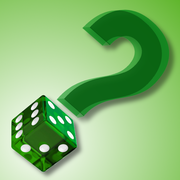
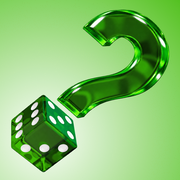
Add files via upload

diff --git a/index.html b/index.html
@@ -361,6 +361,29 @@
   .cta-results.has-results { box-shadow: var(--shadow), 0 0 20px 2px rgba(101, 190, 143, 0.55); }
   .cta-results:disabled { opacity: 0.55; cursor: default; box-shadow: var(--shadow); }
 
+  /* Round 18: "Surprise Me" — a secondary CTA right below the main results
+     button. Deliberately quieter (outlined, not filled) so it reads as a
+     lighter-weight alternative rather than competing with "View Results". */
+  .cta-surprise {
+    margin: 0 0 6px;
+    width: 100%;
+    display: flex; align-items: center; justify-content: center; gap: 8px;
+    border: 1.5px solid rgba(244, 241, 234, 0.35);
+    border-radius: 14px;
+    background: transparent;
+    color: var(--ink-dim);
+    font-family: var(--font-results);
+    font-weight: 600;
+    font-size: 15.5px;
+    letter-spacing: 0.02em;
+    padding: 11px;
+    cursor: pointer;
+    transition: border-color 0.2s ease, color 0.2s ease, background 0.2s ease;
+  }
+  .cta-surprise-icon { width: 17px; height: 17px; flex-shrink: 0; }
+  .cta-surprise:hover:not(:disabled) { border-color: rgba(244, 241, 234, 0.6); color: var(--ink); background: rgba(244, 241, 234, 0.06); }
+  .cta-surprise:disabled { opacity: 0.4; cursor: default; }
+
   /* ---- Footer badge (Round 14: pinned to the viewport so the Feedback
      bubble is reachable from the search screen AND the results screen
      without scrolling past a long results list first) ---- */
@@ -870,6 +893,10 @@
       </div>
 
       <button type="button" class="cta-results" id="view-results-btn">View 0 Results</button>
+      <button type="button" class="cta-surprise" id="surprise-btn" disabled>
+        <svg class="cta-surprise-icon" viewBox="0 0 24 24" fill="none" aria-hidden="true"><rect x="3" y="3" width="18" height="18" rx="4" stroke="currentColor" stroke-width="2"/><circle cx="8.3" cy="8.3" r="1.6" fill="currentColor"/><circle cx="15.7" cy="8.3" r="1.6" fill="currentColor"/><circle cx="12" cy="12" r="1.6" fill="currentColor"/><circle cx="8.3" cy="15.7" r="1.6" fill="currentColor"/><circle cx="15.7" cy="15.7" r="1.6" fill="currentColor"/></svg>
+        Surprise Me
+      </button>
     </section>
 
     <!-- RESULTS SCREEN -->
@@ -1420,8 +1447,13 @@
   // ---- Information panel: app credit + version/update-notes history
   // (Round 12, replaces the old Profile placeholder). Newest entry first;
   // add a new entry here at the top of the array with every future build. ----
-  var APP_VERSION = 'V02.06';
+  var APP_VERSION = 'V02.07';
   var VERSION_HISTORY = [
+    {
+      version: 'V02.07',
+      date: 'September 25, 2026',
+      notes: "New logo and app icon! The “Who's Playing?” badge now shows the actual player counts you picked (like “2-3” or “2,4”) instead of just how many you selected. Added a Surprise Me button on the search screen that jumps straight to a random pick from your top matches. And when nothing matches your filters, the app now tells you which specific filter is the problem instead of a generic “try loosening a filter” message.",
+    },
     {
       version: 'V02.06',
       date: 'September 22, 2026',
@@ -1560,6 +1592,66 @@
     return true;
   }
 
+  // Round 18: smarter zero-results messaging. Mirrors evaluate()'s six
+  // independent checks so any one of them can be skipped in isolation, to
+  // find whichever single filter is the actual bottleneck.
+  var FILTER_DEFS = [
+    { key: 'players', label: 'Player Count',
+      active: function () { return state.players.length > 0; },
+      check: function (g) { return state.players.some(function (p) { return catForPlayers(g, p) >= 1; }); } },
+    { key: 'age', label: 'Age',
+      active: function () { return state.youngestAge != null; },
+      check: function (g) { return !(state.youngestAge != null && g.age != null && state.youngestAge < g.age); } },
+    { key: 'type', label: 'Game Type',
+      active: function () { return state.types.length > 0; },
+      check: function (g) {
+        if (g.semiCoop) return true;
+        var gameType = isCooperative(g) ? 'Cooperative' : 'Competitive';
+        return state.types.indexOf(gameType) !== -1;
+      } },
+    { key: 'time', label: 'Play Time',
+      active: function () { return state.times.length > 0; },
+      check: function (g) { return state.times.indexOf(timeBucketFor(g.pavg)) !== -1; } },
+    { key: 'complexity', label: 'Complexity',
+      active: function () { return state.complexities.length > 0; },
+      check: function (g) { return state.complexities.some(function (c) { return complexityMatches(g.cx, c); }); } },
+    { key: 'tags', label: 'Tags',
+      active: function () { return state.tags.length > 0; },
+      check: function (g) {
+        if (state.tagMode === 'ALL') return state.tags.every(function (t) { return gameHasTag(g, t); });
+        return state.tags.some(function (t) { return gameHasTag(g, t); });
+      } }
+  ];
+
+  function evaluateSkipping(game, skipKey) {
+    for (var i = 0; i < FILTER_DEFS.length; i++) {
+      var f = FILTER_DEFS[i];
+      if (f.key === skipKey) continue;
+      if (!f.active()) continue;
+      if (!f.check(game)) return false;
+    }
+    return true;
+  }
+
+  // Finds the single active filter whose removal would unblock the most
+  // results and names it specifically; only falls back to the old generic
+  // message when no single filter's removal produces any results at all
+  // (i.e. it genuinely takes loosening two or more together), per Jerry's
+  // call to keep the multi-filter case simple.
+  function zeroResultsMessage() {
+    var activeFilters = FILTER_DEFS.filter(function (f) { return f.active(); });
+    var best = null;
+    activeFilters.forEach(function (f) {
+      var count = GAMES.filter(function (g) { return evaluateSkipping(g, f.key); }).length;
+      if (count > 0 && (!best || count > best.count)) best = { label: f.label, count: count };
+    });
+    if (best) {
+      return best.count + ' game' + (best.count === 1 ? '' : 's') + ' match' + (best.count === 1 ? 'es' : '') +
+        ' everything except ' + best.label + ' — try loosening that.';
+    }
+    return 'Nothing fits that combination — try loosening a filter.';
+  }
+
   function recompute() {
     currentResults = GAMES.filter(evaluate).sort(sortComparator(currentSort));
     var btn = document.getElementById('view-results-btn');
@@ -1567,6 +1659,7 @@
     btn.textContent = n === 0 ? 'No Results' : 'View ' + n + ' Result' + (n === 1 ? '' : 's');
     btn.disabled = n === 0;
     btn.classList.toggle('has-results', n > 0);
+    document.getElementById('surprise-btn').disabled = n === 0;
   }
 
   // ---- Row label / icon "lit" rendering ----
@@ -1592,6 +1685,35 @@
 
   function playerLabel(n) { return (n >= 6 ? '6+' : String(n)) + ' Player' + (n === 1 ? '' : 's'); }
 
+  // Round 18: the badge shows the actual selected player counts rather than
+  // just a count-of-selections. Consecutive picks collapse into a hyphenated
+  // range ("2-3"); non-consecutive picks are comma-separated ("2,4"); a run
+  // is grouped by consecutivity so a mix works too ("1-3,5"). Since 6 always
+  // means "6+" (six-or-more), any run that reaches 6 collapses to "N+"
+  // instead of a literal "...-6" (confirmed with Jerry: "5-6+" reads oddly,
+  // and "N+" is the more accurate description once the range's upper end is
+  // already unbounded) — this also naturally covers the existing single-6
+  // case ("6+" alone).
+  function playersBadgeText(selected) {
+    var sorted = selected.slice().sort(function (a, b) { return a - b; });
+    var groups = [];
+    var i = 0;
+    while (i < sorted.length) {
+      var start = sorted[i];
+      var end = start;
+      var j = i + 1;
+      while (j < sorted.length && sorted[j] === end + 1) { end = sorted[j]; j++; }
+      groups.push([start, end]);
+      i = j;
+    }
+    return groups.map(function (g) {
+      var start = g[0], end = g[1];
+      if (end >= 6) return start + '+';
+      if (start === end) return String(start);
+      return start + '-' + end;
+    }).join(',');
+  }
+
   function renderPlayersRow() {
     var hasPlayers = state.players.length > 0;
     var hasAge = state.youngestAge != null;
@@ -1605,7 +1727,7 @@
     setRowLit('row-players', 'chip-players', hasPlayers || hasAge);
     var badge = document.getElementById('badge-players');
     if (hasPlayers) {
-      badge.textContent = state.players.length === 1 ? (state.players[0] >= 6 ? '6+' : String(state.players[0])) : String(state.players.length);
+      badge.textContent = playersBadgeText(state.players);
       badge.classList.add('is-shown');
     } else { badge.classList.remove('is-shown'); }
     var ageBadge = document.getElementById('badge-players-age');
@@ -2153,7 +2275,7 @@
     if (!currentResults.length) {
       var empty = document.createElement('div');
       empty.className = 'empty-note';
-      empty.textContent = 'Nothing fits that combination — try loosening a filter.';
+      empty.textContent = zeroResultsMessage();
       list.appendChild(empty);
       viewMoreBtn.hidden = true;
       return;
@@ -2325,6 +2447,23 @@
     renderResults();
     goTo('results');
   });
+  // Round 18: "Surprise Me" — skips the ranked list entirely and jumps
+  // straight to a random pick from the top 5 current matches (flat odds,
+  // no rating-weighting — the pool is already curated to the best matches).
+  // Reuses the existing accordion/expanded-row rendering rather than a
+  // separate single-game view: the pick is always within the default
+  // visibleCount of 10, so it shows expanded in its normal ranked position.
+  document.getElementById('surprise-btn').addEventListener('click', function () {
+    currentSort = defaultSortOrder;
+    visibleCount = 10;
+    recompute();
+    if (!currentResults.length) return;
+    var pool = currentResults.slice(0, 5);
+    selectedGame = pool[Math.floor(Math.random() * pool.length)];
+    renderResults();
+    goTo('results');
+  });
+
   document.getElementById('back-to-search').addEventListener('click', function () { goTo('search'); });
   document.getElementById('back-to-search-feedback').addEventListener('click', function () { goTo('search'); });
 
